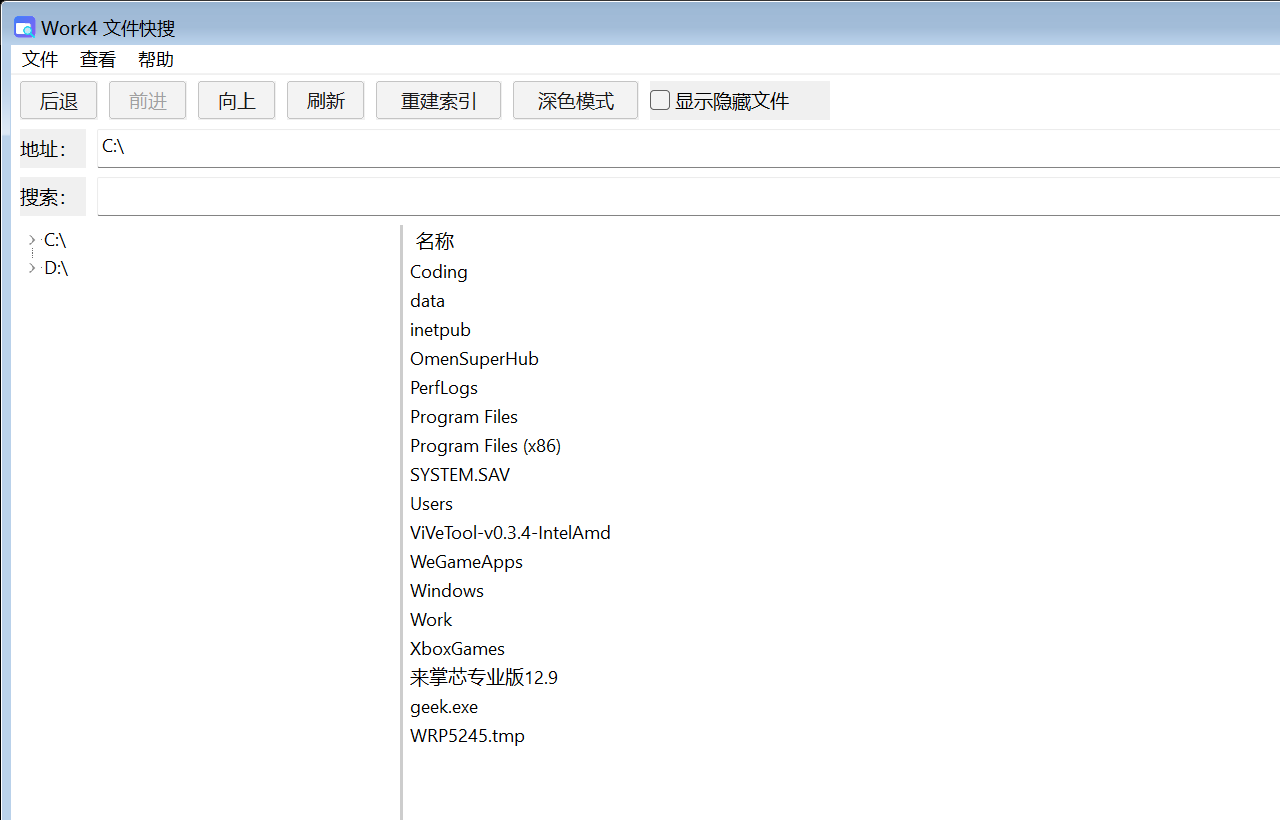
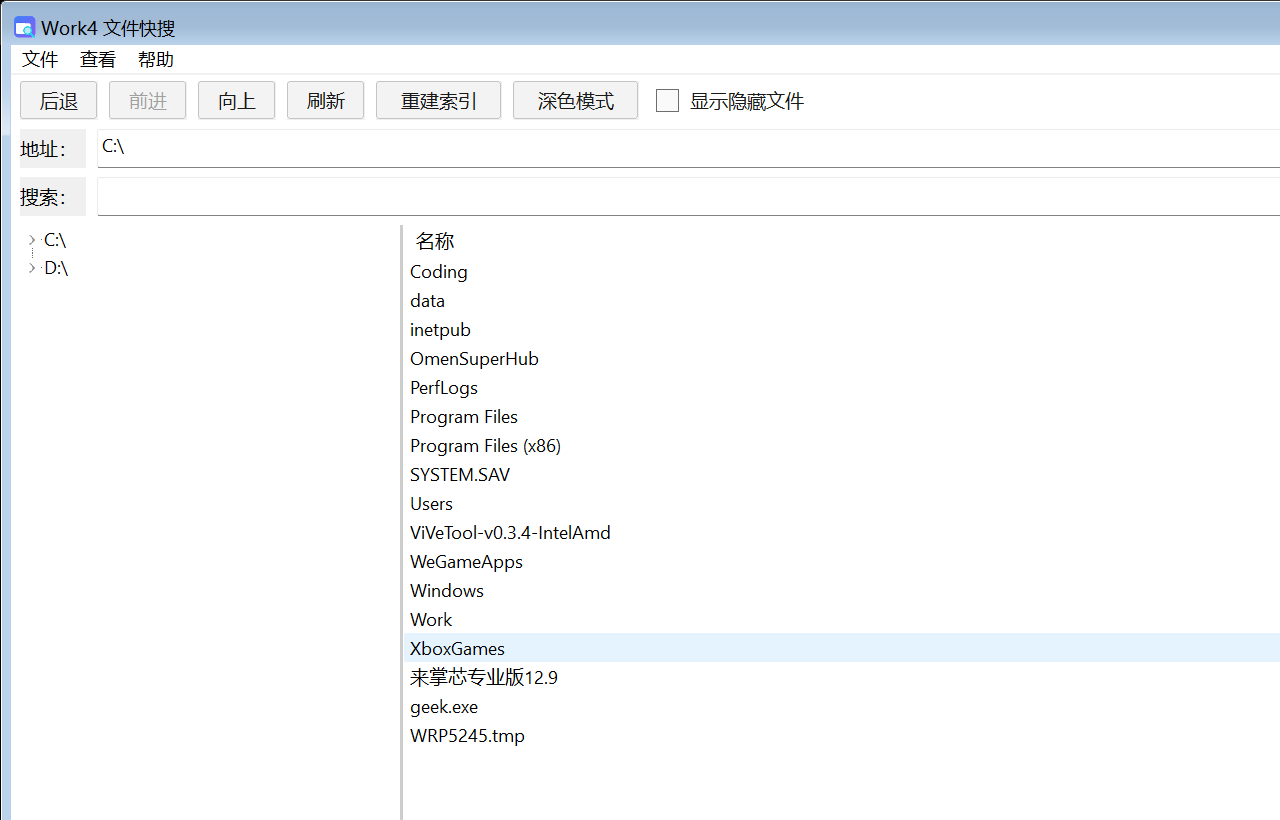
fix(ui): 深色模式下"显示隐藏文件"复选框文字不可见
根因：复选框为主题化控件，主题化按钮忽略 WM_CTLCOLORBTN 的文字颜色设置，
深色模式下文字仍为黑色（0,0,0）与深色背景几乎不可见。

修复：改为自绘复选框（BS_OWNERDRAW）：
- WM_DRAWITEM 中绘制勾选框与文字，适配深浅色模式（白色/深色文字、选中蓝色填充、白色勾）
- BS_OWNERDRAW 按钮不保存勾选状态，状态由 g_app.showHidden 管理，点击时直接翻转并重绘
- 菜单项"显示隐藏文件"同步使用应用状态

验证：smoke-test / verify-dark-highlight / resize-test 全部通过；
真实屏幕像素采样确认深色未勾选（白字灰框）、深色勾选（蓝底白勾）、浅色两种状态颜色均正确。

Changed region(s): [[0.3125, 0.7622, 1.0, 0.8232], [0.5, 0.0915, 0.625, 0.1524]]

diff --git a/src/main.cpp b/src/main.cpp
@@ -746,6 +746,79 @@ LRESULT CALLBACK WndProc(HWND hwnd, UINT msg, WPARAM wParam, LPARAM lParam) {
         case WM_DRAWITEM: {
             DRAWITEMSTRUCT* dis = (DRAWITEMSTRUCT*)lParam;
             if (dis->CtlType != ODT_BUTTON || !dis->hwndItem) break;
+            // "显示隐藏文件"复选框：自绘勾选框 + 文字，适配深浅色模式
+            // （主题化复选框忽略 CTLCOLOR 文字色，深色模式下文字会保持黑色不可见）
+            if (dis->CtlID == (UINT)IDC_HIDDEN) {
+                HDC hdc = dis->hDC;
+                RECT rc = dis->rcItem;
+                // BS_OWNERDRAW 按钮不保存勾选状态（BM_GETCHECK 恒为 0），
+                // 状态由应用自己的 g_app.showHidden 管理
+                bool checked = g_app.showHidden;
+                bool disabled = (dis->itemState & ODS_DISABLED) != 0;
+                bool focus = (dis->itemState & ODS_FOCUS) != 0;
+                const bool dark = g_app.darkMode;
+
+                COLORREF bg = dark ? RGB(32, 32, 32)
+                                   : (COLORREF)GetSysColor(COLOR_WINDOW);
+                COLORREF fg = disabled ? (dark ? RGB(120, 120, 120) : RGB(160, 160, 160))
+                                       : (dark ? RGB(235, 235, 235) : RGB(25, 25, 25));
+                COLORREF boxBorder = disabled ? (dark ? RGB(80, 80, 80) : RGB(190, 190, 190))
+                                              : (dark ? RGB(130, 130, 130) : RGB(110, 110, 110));
+                COLORREF boxFill = checked ? (dark ? RGB(56, 189, 248) : RGB(0, 102, 204))
+                                           : (dark ? RGB(45, 45, 45) : RGB(250, 250, 250));
+
+                HBRUSH bgBr = CreateSolidBrush(bg);
+                FillRect(hdc, &rc, bgBr);
+                DeleteObject(bgBr);
+
+                int box = MulDiv(15, g_app.dpi, 96);
+                int boxX = rc.left + MulDiv(4, g_app.dpi, 96);
+                int boxY = rc.top + (rc.bottom - rc.top - box) / 2;
+
+                HBRUSH bf = CreateSolidBrush(boxFill);
+                HPEN bp = CreatePen(PS_SOLID, 1, boxBorder);
+                HGDIOBJ oPen = SelectObject(hdc, bp);
+                HGDIOBJ oBr = SelectObject(hdc, bf);
+                Rectangle(hdc, boxX, boxY, boxX + box, boxY + box);
+                SelectObject(hdc, oPen);
+                SelectObject(hdc, oBr);
+                DeleteObject(bp);
+                DeleteObject(bf);
+
+                if (checked) {
+                    HPEN cp = CreatePen(PS_SOLID, std::max(1, MulDiv(2, g_app.dpi, 96)),
+                                        RGB(255, 255, 255));
+                    HGDIOBJ oP = SelectObject(hdc, cp);
+                    int cx = boxX + MulDiv(3, g_app.dpi, 96);
+                    int cy = boxY + box / 2 + MulDiv(1, g_app.dpi, 96);
+                    int mx = boxX + box / 2 - MulDiv(1, g_app.dpi, 96);
+                    int my = boxY + box - MulDiv(4, g_app.dpi, 96);
+                    int ex = boxX + box - MulDiv(3, g_app.dpi, 96);
+                    int ey = boxY + MulDiv(4, g_app.dpi, 96);
+                    MoveToEx(hdc, cx, cy, nullptr);
+                    LineTo(hdc, mx, my);
+                    LineTo(hdc, ex, ey);
+                    SelectObject(hdc, oP);
+                    DeleteObject(cp);
+                }
+
+                SetBkMode(hdc, TRANSPARENT);
+                SetTextColor(hdc, fg);
+                HFONT oldFont = (HFONT)SelectObject(hdc, g_app.hFont);
+                wchar_t text[64];
+                GetWindowTextW(dis->hwndItem, text, 64);
+                RECT tr = rc;
+                tr.left = boxX + box + MulDiv(7, g_app.dpi, 96);
+                DrawTextW(hdc, text, -1, &tr,
+                          DT_LEFT | DT_VCENTER | DT_SINGLELINE | DT_NOPREFIX);
+                SelectObject(hdc, oldFont);
+                if (focus) {
+                    RECT fr = tr;
+                    InflateRect(&fr, 1, 2);
+                    DrawFocusRect(hdc, &fr);
+                }
+                return TRUE;
+            }
             HDC hdc = dis->hDC;
             RECT rc = dis->rcItem;
             bool pressed = (dis->itemState & ODS_SELECTED) != 0;
@@ -845,7 +918,9 @@ LRESULT CALLBACK WndProc(HWND hwnd, UINT msg, WPARAM wParam, LPARAM lParam) {
                     break;
                 case IDC_HIDDEN:
                     if (HIWORD(wParam) == BN_CLICKED) {
-                        g_app.showHidden = IsDlgButtonChecked(hwnd, IDC_HIDDEN) == BST_CHECKED;
+                        // 自绘复选框（BS_OWNERDRAW）不保存勾选状态，直接翻转应用状态
+                        g_app.showHidden = !g_app.showHidden;
+                        InvalidateRect(g_app.hChkHidden, nullptr, TRUE);
                         CheckMenuItem(GetMenu(hwnd), IDM_HIDDEN,
                                       MF_BYCOMMAND |
                                           (g_app.showHidden ? MF_CHECKED : MF_UNCHECKED));
@@ -858,7 +933,7 @@ LRESULT CALLBACK WndProc(HWND hwnd, UINT msg, WPARAM wParam, LPARAM lParam) {
                     break;
                 case IDM_HIDDEN: {
                     g_app.showHidden = !g_app.showHidden;
-                    CheckDlgButton(hwnd, IDC_HIDDEN, g_app.showHidden ? BST_CHECKED : BST_UNCHECKED);
+                    InvalidateRect(g_app.hChkHidden, nullptr, TRUE);
                     CheckMenuItem(GetMenu(hwnd), IDM_HIDDEN,
                                   MF_BYCOMMAND |
                                       (g_app.showHidden ? MF_CHECKED : MF_UNCHECKED));

diff --git a/src/ui.cpp b/src/ui.cpp
@@ -109,7 +109,8 @@ void CreateControls(HWND parent) {
     g_app.hBtnRebuild = MakeButton(parent, IDC_REBUILD, L"重建索引", 0);
     g_app.hBtnDark = MakeButton(parent, IDC_DARK, L"深色模式", 0);
     g_app.hChkHidden = CreateWindowExW(0, L"BUTTON", L"显示隐藏文件",
-                                       WS_CHILD | WS_VISIBLE | WS_TABSTOP | BS_AUTOCHECKBOX,
+                                       WS_CHILD | WS_VISIBLE | WS_TABSTOP |
+                                           BS_AUTOCHECKBOX | BS_OWNERDRAW,
                                        0, 0, 0, 0, parent, (HMENU)(INT_PTR)IDC_HIDDEN,
                                        g_app.hInst, nullptr);
 
